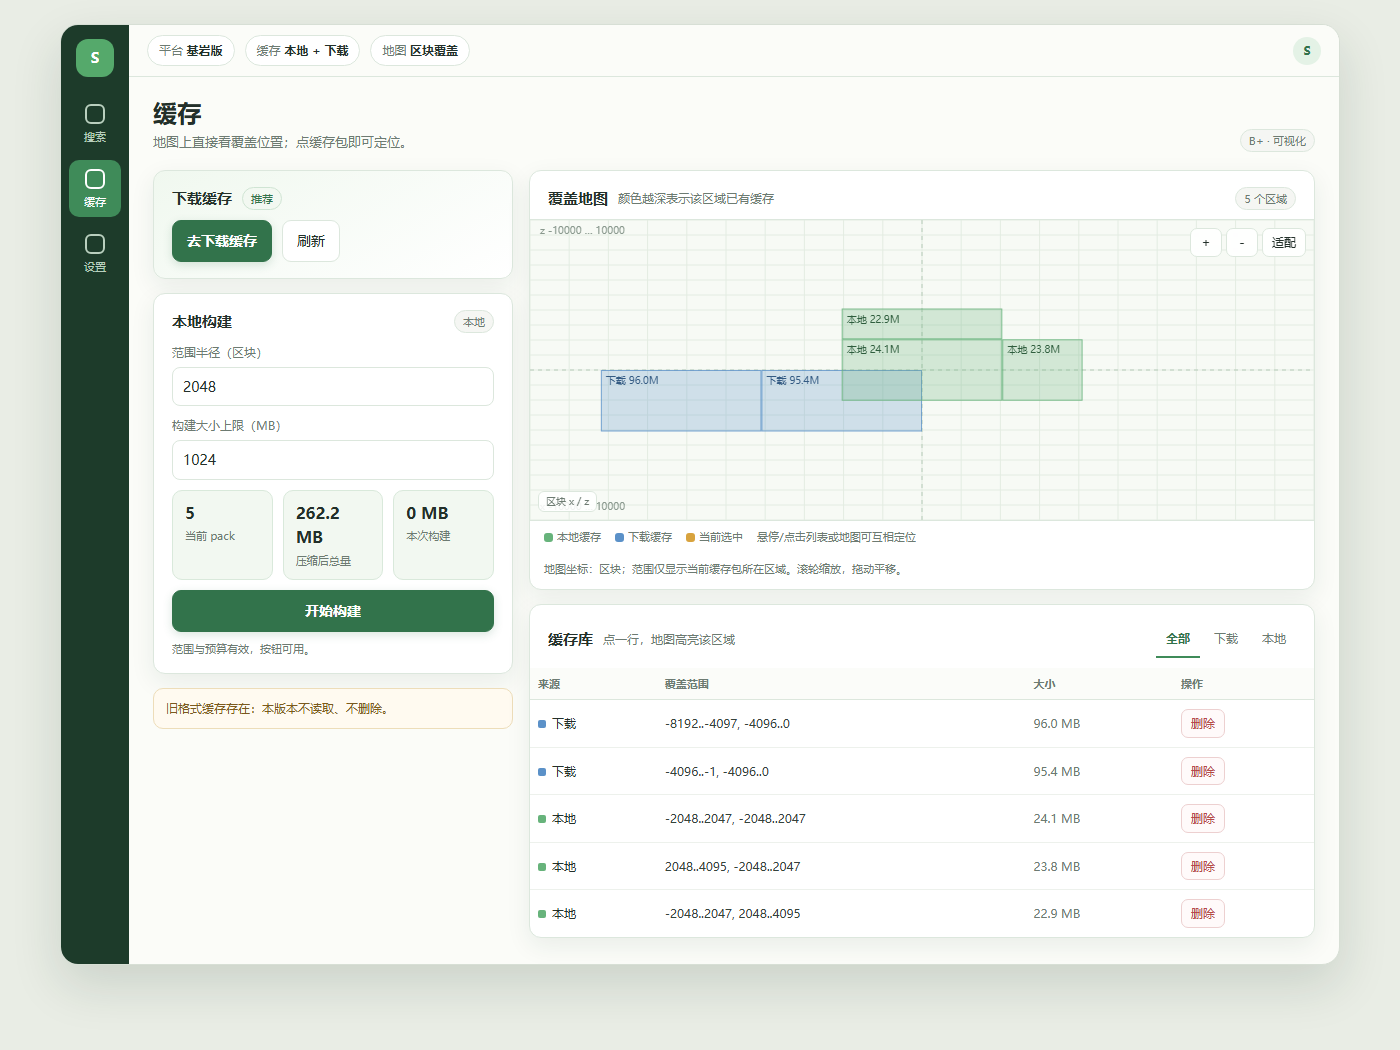
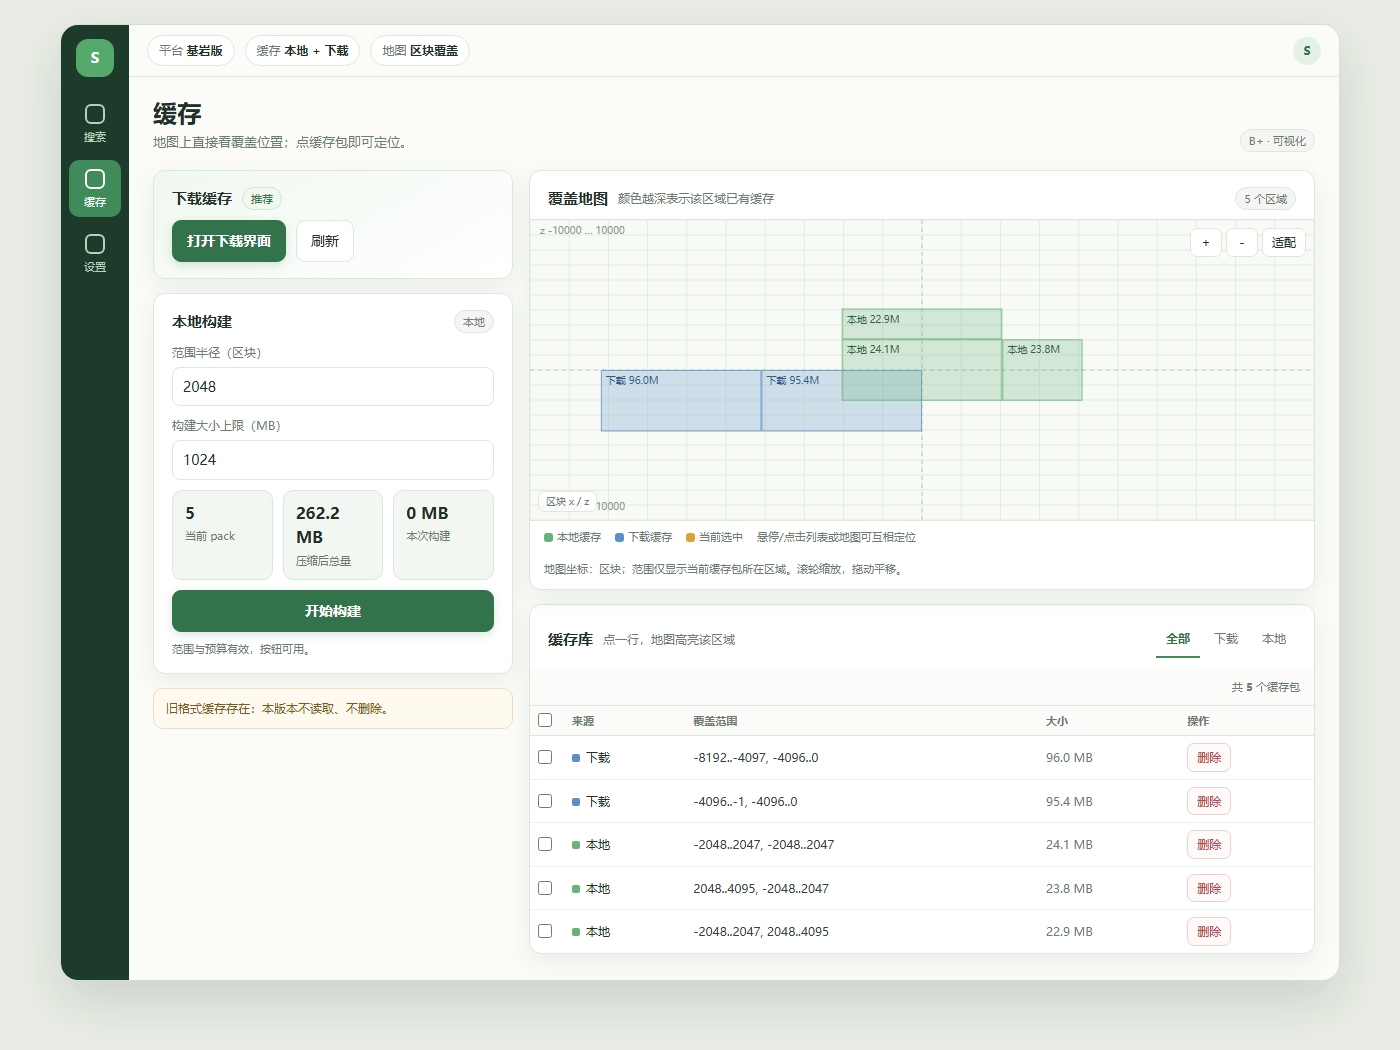
docs: 下载管理页与缓存批量删除原型

diff --git a/docs/ui-prototypes/download-page.html b/docs/ui-prototypes/download-page.html
@@ -1,0 +1,249 @@
+<!doctype html>
+<html lang="zh-CN">
+<head>
+<meta charset="utf-8">
+<meta name="viewport" content="width=device-width, initial-scale=1">
+<title>下载缓存 - 批量管理原型</title>
+<link rel="stylesheet" href="cache-ui.css">
+</head>
+<body>
+<div class="app">
+  <aside class="sidebar">
+    <div class="brand">S</div>
+    <button class="side-item"><span class="ico"></span>搜索</button>
+    <button class="side-item active"><span class="ico"></span>缓存</button>
+    <button class="side-item"><span class="ico"></span>设置</button>
+    <div class="side-spacer"></div>
+  </aside>
+  <main class="main">
+    <div class="topbar">
+      <span class="pill">平台 <strong>基岩版</strong></span>
+      <span class="pill">来源 <strong>官方缓存</strong></span>
+      <span class="pill">只读 <strong>可删不可改</strong></span>
+      <span class="spacer"></span>
+      <span class="avatar">S</span>
+    </div>
+    <div class="content">
+      <div class="download-page-head">
+        <a class="back" href="scheme-b-visual.html">← 缓存页</a>
+        <div>
+          <h1 style="font-size:23px;margin:0">下载缓存</h1>
+          <p class="muted small" style="margin:2px 0 0">按区域挑选官方缓存包；下载后可随时整批删除，不能修改内容或大小。</p>
+        </div>
+      </div>
+
+      <div class="catalog-tabs">
+        <button class="catalog-tab active" data-view="available">可下载 <span class="count" id="availableCount"></span></button>
+        <button class="catalog-tab" data-view="downloaded">已下载 <span class="count" id="downloadedCount"></span></button>
+      </div>
+
+      <div class="split" style="grid-template-columns:400px minmax(0,1fr)">
+        <div class="stack">
+          <section class="card map-card map-wide">
+            <div class="card-pad" style="padding-bottom:8px">
+              <div class="card-head" style="margin-bottom:0">
+                <h2>覆盖预览</h2>
+                <span class="spacer"></span>
+                <span class="tag gray" id="mapMode">可下载</span>
+              </div>
+            </div>
+            <div class="map-wrap">
+              <canvas id="coverageMap" style="height:330px" aria-label="缓存覆盖地图"></canvas>
+              <div class="map-tools">
+                <button class="btn small" id="zoomIn">＋</button>
+                <button class="btn small" id="zoomOut">－</button>
+                <button class="btn small" id="fit">适配</button>
+              </div>
+              <div class="map-readout" id="readout">区块 x / z</div>
+            </div>
+            <div class="map-legend">
+              <span><i class="legend-dot downloaded"></i>可下载包</span>
+              <span><i class="legend-dot local"></i>已下载</span>
+              <span><i class="legend-dot selected"></i>当前选中</span>
+            </div>
+            <div class="map-note">点列表或地图选择缓存包；蓝色为可下载，绿色为已下载。</div>
+          </section>
+          <div class="summary-strip">
+            <span>已下载 <strong id="downloadedTotal">0</strong> 个</span>
+            <span>占用 <strong id="downloadedSize">0 MB</strong></span>
+            <span class="note">已下载缓存只读，可批量删除。</span>
+          </div>
+        </div>
+
+        <section class="card">
+          <div class="toolstrip">
+            <div class="catalog-tabs" style="border:0;margin:0;flex:1">
+              <span class="note" id="viewHint">选择缓存包下载</span>
+            </div>
+            <input class="input search" id="search" placeholder="搜索范围，如 2048 / 4096">
+            <button class="btn small" id="refresh">刷新</button>
+          </div>
+          <div class="toolstrip" style="padding-top:0;padding-bottom:0;border:0">
+            <div class="bulkbar" id="bulkbar">
+              <span>已选 <strong id="selCount">0</strong> 个</span>
+              <span class="spacer"></span>
+              <button class="btn small" id="bulkAction">下载选中</button>
+              <button class="btn small danger hidden" id="bulkDelete">删除选中</button>
+            </div>
+            <span class="note" style="margin-left:auto" id="pageInfo"></span>
+          </div>
+          <table class="table compact">
+            <thead>
+              <tr>
+                <th style="width:30px"><input class="check" id="selectAll" type="checkbox" title="全选当前页"></th>
+                <th>包名</th><th>覆盖范围</th><th>大小</th><th>状态</th><th style="width:78px">操作</th>
+              </tr>
+            </thead>
+            <tbody id="rows"></tbody>
+          </table>
+          <div class="pager">
+            <button class="btn" id="prev">上一页</button>
+            <span id="pageLabel">1 / 1</span>
+            <button class="btn" id="next">下一页</button>
+          </div>
+        </section>
+      </div>
+    </div>
+  </main>
+</div>
+<script>
+  const PAGE = 20;
+  const available = [], downloaded = [];
+  // 生成 240 个可下载包 + 247 个已下载包（示例）
+  for (let i = 0; i < 240; i++) {
+    const cx = (i % 20) * 2048 - 20480;
+    const cz = Math.floor(i / 20) * 2048 - 12288;
+    available.push({ id:'a'+i, name:'pack-' + String(i+1).padStart(4,'0'), x0:cx, x1:cx+2047, z0:cz, z1:cz+2047, size:24.1 + (i%7)*.1, state:'未下载' });
+  }
+  for (let i = 0; i < 247; i++) {
+    const cx = (i % 20) * 2048 - 20480;
+    const cz = Math.floor(i / 20) * 2048 - 12288;
+    downloaded.push({ id:'d'+i, name:'pack-' + String(i+1).padStart(4,'0'), x0:cx, x1:cx+2047, z0:cz, z1:cz+2047, size:24.0 + (i%5)*.1, state:'已下载' });
+  }
+  let view = 'available', page = 0, selected = null, filter = '';
+  const selectedSet = new Set();
+  const canvas = document.getElementById('coverageMap');
+  const ctx = canvas.getContext('2d');
+  let mapView = { x0:-26000, x1:26000, z0:-18000, z1:18000 };
+
+  function list() { return view === 'available' ? available : downloaded; }
+  function filtered() {
+    const q = filter.trim();
+    return list().filter(p => !q || p.name.includes(q) || String(p.x0).includes(q) || String(p.x1).includes(q));
+  }
+  function pageRows() { return filtered().slice(page*PAGE, page*PAGE + PAGE); }
+  function fmt(n){ return n.toFixed(1) + ' MB'; }
+
+  function sizeCanvas() {
+    const r = canvas.getBoundingClientRect();
+    const dpr = window.devicePixelRatio || 1;
+    canvas.width = Math.max(1, Math.round(r.width*dpr));
+    canvas.height = Math.max(1, Math.round(r.height*dpr));
+    ctx.setTransform(dpr,0,0,dpr,0,0);
+    draw();
+  }
+  function w2s(x,z) {
+    const w=canvas.clientWidth,h=canvas.clientHeight;
+    return { x:(x-mapView.x0)/(mapView.x1-mapView.x0)*w, y:h-(z-mapView.z0)/(mapView.z1-mapView.z0)*h };
+  }
+  function s2w(sx,sy) {
+    const w=canvas.clientWidth,h=canvas.clientHeight;
+    return { x:mapView.x0+sx/w*(mapView.x1-mapView.x0), z:mapView.z0+(h-sy)/h*(mapView.z1-mapView.z0) };
+  }
+  function draw() {
+    const w=canvas.clientWidth,h=canvas.clientHeight;
+    ctx.clearRect(0,0,w,h); ctx.fillStyle='#f7faf5'; ctx.fillRect(0,0,w,h);
+    ctx.strokeStyle='#e3ece2'; ctx.lineWidth=1;
+    for (let i=0;i<=20;i++) { const x=i/20*w,y=i/20*h; ctx.beginPath();ctx.moveTo(x,0);ctx.lineTo(x,h);ctx.stroke();ctx.beginPath();ctx.moveTo(0,y);ctx.lineTo(w,y);ctx.stroke(); }
+    const all = list();
+    for (const p of all) {
+      const a=w2s(p.x0,p.z0), b=w2s(p.x1+1,p.z1+1);
+      const x=Math.min(a.x,b.x), y=Math.min(a.y,b.y), ww=Math.abs(b.x-a.x), hh=Math.abs(b.y-a.y);
+      if (x+ww<0||y+hh<0||x>w||y>h) continue;
+      const isSel = p.id === selected;
+      const isDown = view === 'downloaded';
+      ctx.fillStyle = isSel ? 'rgba(216,163,62,.55)' : (isDown ? 'rgba(103,179,123,.32)' : 'rgba(91,145,200,.28)');
+      ctx.fillRect(x,y,ww,hh);
+      ctx.strokeStyle = isSel ? '#d8a33e' : (isDown ? 'rgba(103,179,123,.55)' : 'rgba(91,145,200,.5)');
+      ctx.lineWidth = isSel ? 2 : .7;
+      ctx.strokeRect(x+.5,y+.5,Math.max(1,ww-1),Math.max(1,hh-1));
+    }
+    ctx.fillStyle='#8a998e';ctx.font='10px "Microsoft YaHei", sans-serif';
+    ctx.fillText('x ' + Math.round(mapView.x0) + ' … ' + Math.round(mapView.x1), 10, h-10);
+    ctx.fillText('z ' + Math.round(mapView.z0) + ' … ' + Math.round(mapView.z1), 10, 14);
+  }
+  function render() {
+    const rows = document.getElementById('rows');
+    rows.innerHTML = '';
+    const paged = pageRows();
+    for (const p of paged) {
+      const tr = document.createElement('tr');
+      tr.className = 'pack-row' + (p.id === selected ? ' selected' : '');
+      const isDown = view === 'downloaded';
+      tr.innerHTML = '<td><input class="check row-check" type="checkbox" ' + (selectedSet.has(p.id)?'checked':'') + '></td>' +
+        '<td>' + p.name + '</td><td class="range">' + p.x0 + '..' + p.x1 + ', ' + p.z0 + '..' + p.z1 + '</td>' +
+        '<td class="num">' + fmt(p.size) + '</td>' +
+        '<td><span class="download-state ' + (isDown?'':'pending') + '">' + (isDown?'已下载':'可下载') + '</span></td>' +
+        '<td>' + (isDown ? '<button class="btn small danger" data-del="'+p.id+'">删除</button>'
+                         : '<button class="btn small primary" data-dl="'+p.id+'">下载</button>') + '</td>';
+      tr.addEventListener('click', () => { selected = p.id; render(); draw(); });
+      const cb = tr.querySelector('.row-check');
+      cb.addEventListener('click', e => { e.stopPropagation(); if (cb.checked) selectedSet.add(p.id); else selectedSet.delete(p.id); updateSel(); });
+      const del = tr.querySelector('[data-del]');
+      if (del) del.addEventListener('click', e => { e.stopPropagation(); downloaded = downloaded.filter(x=>x.id!==p.id); selectedSet.delete(p.id); if(selected===p.id) selected=null; render(); draw(); updateCounts(); });
+      const dl = tr.querySelector('[data-dl]');
+      if (dl) dl.addEventListener('click', e => { e.stopPropagation(); dl.textContent='已加入'; dl.disabled=true; });
+      rows.appendChild(tr);
+    }
+    document.getElementById('pageLabel').textContent = (page+1) + ' / ' + Math.max(1, Math.ceil(filtered().length / PAGE));
+    document.getElementById('pageInfo').textContent = '共 ' + filtered().length + ' 个';
+    updateSel();
+  }
+  function updateSel() {
+    const paged = pageRows();
+    document.getElementById('selectAll').checked = paged.length > 0 && paged.every(p=>selectedSet.has(p.id));
+    document.getElementById('selCount').textContent = selectedSet.size;
+    document.getElementById('bulkbar').classList.toggle('show', selectedSet.size > 0);
+    const isDown = view === 'downloaded';
+    document.getElementById('bulkAction').classList.toggle('hidden', isDown);
+    document.getElementById('bulkDelete').classList.toggle('hidden', !isDown);
+  }
+  function updateCounts() {
+    document.getElementById('availableCount').textContent = available.length;
+    document.getElementById('downloadedCount').textContent = downloaded.length;
+    document.getElementById('downloadedTotal').textContent = downloaded.length;
+    document.getElementById('downloadedSize').textContent = fmt(downloaded.reduce((s,p)=>s+p.size,0));
+    document.getElementById('mapMode').textContent = view === 'downloaded' ? '已下载' : '可下载';
+    render();
+  }
+  function setView(v) {
+    view = v; page = 0; selected = null; selectedSet.clear();
+    document.querySelectorAll('.catalog-tab').forEach(x => x.classList.toggle('active', x.dataset.view === v));
+    updateCounts(); draw();
+  }
+  document.querySelectorAll('.catalog-tab').forEach(t => t.addEventListener('click', () => setView(t.dataset.view)));
+  document.getElementById('search').addEventListener('input', e => { filter = e.target.value; page = 0; selectedSet.clear(); render(); });
+  document.getElementById('prev').addEventListener('click', () => { if (page > 0) { page--; selectedSet.clear(); render(); } });
+  document.getElementById('next').addEventListener('click', () => { if ((page+1)*PAGE < filtered().length) { page++; selectedSet.clear(); render(); } });
+  document.getElementById('selectAll').addEventListener('change', e => {
+    selectedSet.clear(); if (e.target.checked) pageRows().forEach(p=>selectedSet.add(p.id)); render();
+  });
+  document.getElementById('bulkAction').addEventListener('click', () => { selectedSet.clear(); render(); });
+  document.getElementById('bulkDelete').addEventListener('click', () => {
+    downloaded = downloaded.filter(p => !selectedSet.has(p.id)); selectedSet.clear(); if (selected && !downloaded.some(p=>p.id===selected)) selected=null; updateCounts(); draw();
+  });
+  canvas.addEventListener('click', e => {
+    const r=canvas.getBoundingClientRect(), p=s2w(e.clientX-r.left,e.clientY-r.top);
+    const hit=list().slice().reverse().find(x=>p.x>=x.x0&&p.x<=x.x1&&p.z>=x.z0&&p.z<=x.z1);
+    if(hit){ selected=hit.id; render(); draw(); }
+  });
+  canvas.addEventListener('mousemove', e => { const r=canvas.getBoundingClientRect(), p=s2w(e.clientX-r.left,e.clientY-r.top); document.getElementById('readout').textContent='区块 ' + Math.round(p.x) + ' / ' + Math.round(p.z); });
+  canvas.addEventListener('wheel', e => { e.preventDefault(); const f=e.deltaY<0?.8:1.25; const cx=(mapView.x0+mapView.x1)/2, cz=(mapView.z0+mapView.z1)/2; const hw=(mapView.x1-mapView.x0)/2*f, hh=(mapView.z1-mapView.z0)/2*f; mapView={x0:cx-hw,x1:cx+hw,z0:cz-hh,z1:cz+hh}; draw(); }, {passive:false});
+  document.getElementById('zoomIn').addEventListener('click',()=>{const cx=(mapView.x0+mapView.x1)/2,cz=(mapView.z0+mapView.z1)/2,hw=(mapView.x1-mapView.x0)*.375,hh=(mapView.z1-mapView.z0)*.375;mapView={x0:cx-hw,x1:cx+hw,z0:cz-hh,z1:cz+hh};draw();});
+  document.getElementById('zoomOut').addEventListener('click',()=>{const cx=(mapView.x0+mapView.x1)/2,cz=(mapView.z0+mapView.z1)/2,hw=(mapView.x1-mapView.x0)*.75,hh=(mapView.z1-mapView.z0)*.75;mapView={x0:cx-hw,x1:cx+hw,z0:cz-hh,z1:cz+hh};draw();});
+  document.getElementById('fit').addEventListener('click',()=>{mapView={x0:-26000,x1:26000,z0:-18000,z1:18000};draw();});
+  window.addEventListener('resize', sizeCanvas);
+  sizeCanvas(); updateCounts(); draw();
+</script>
+</body>
+</html>

diff --git a/docs/ui-prototypes/scheme-b-visual.html b/docs/ui-prototypes/scheme-b-visual.html
@@ -42,8 +42,8 @@
               <span class="note">官方缓存只读；可整包删除，不能修改内容或大小。</span>
             </div>
             <div class="row" style="margin-top:10px">
-              <button class="btn primary" disabled>去下载缓存</button>
-              <button class="btn" disabled>刷新</button>
+              <a class="btn primary" href="download-page.html" style="text-decoration:none;display:inline-flex;align-items:center">打开下载界面</a>
+              <button class="btn">刷新</button>
             </div>
           </section>
 
@@ -113,8 +113,16 @@
                 </div>
               </div>
             </div>
-            <table class="table">
-              <thead><tr><th>来源</th><th>覆盖范围</th><th>大小</th><th>操作</th></tr></thead>
+            <div class="toolstrip">
+              <div class="bulkbar" id="bulkbar">
+                <span>已选 <strong id="selCount">0</strong> 个</span>
+                <span class="spacer"></span>
+                <button class="btn small danger" id="deleteSelected">删除选中</button>
+              </div>
+              <span class="note" style="margin-left:auto">共 <strong id="rowCount">0</strong> 个缓存包</span>
+            </div>
+            <table class="table compact">
+              <thead><tr><th style="width:30px"><input class="check" id="selectAll" type="checkbox" title="全选当前筛选"></th><th>来源</th><th>覆盖范围</th><th>大小</th><th>操作</th></tr></thead>
               <tbody id="packRows"></tbody>
             </table>
             <div class="empty" id="packEmpty" style="margin:12px 14px;display:none">当前筛选下没有缓存包。</div>
@@ -134,6 +142,7 @@
     { id:'l3', source:'local', x0:-2048, x1:2047, z0:2048, z1:4095, size:22.9 }
   ];
   let selected = null, hovered = null, filter = 'all';
+  const selectedSet = new Set();
   let view = { x0:-10000, x1:10000, z0:-10000, z1:10000 };
   const canvas = document.getElementById('coverageMap');
   const ctx = canvas.getContext('2d');
@@ -222,22 +231,44 @@
       tr.className = 'pack-row' + (p.id === selected ? ' selected' : '');
       tr.dataset.id = p.id;
       const srcLabel = p.source === 'downloaded' ? '下载' : '本地';
-      tr.innerHTML = '<td><i class="source-dot ' + p.source + '"></i>' + srcLabel + '</td>' +
+      tr.innerHTML = '<td><input class="check row-check" type="checkbox" ' + (selectedSet.has(p.id) ? 'checked' : '') + '></td>' +
+        '<td><i class="source-dot ' + p.source + '"></i>' + srcLabel + '</td>' +
         '<td class="range">' + p.x0 + '..' + p.x1 + ', ' + p.z0 + '..' + p.z1 + '</td>' +
         '<td class="num">' + p.size.toFixed(1) + ' MB</td>' +
         '<td><button class="btn small danger" data-del="' + p.id + '">删除</button></td>';
       tr.addEventListener('click', () => { selected = p.id; renderRows(); draw(); });
       tr.addEventListener('mouseenter', () => { hovered = p.id; draw(); });
       tr.addEventListener('mouseleave', () => { hovered = null; draw(); });
+      const cb = tr.querySelector('.row-check');
+      cb.addEventListener('click', (e) => {
+        e.stopPropagation();
+        if (cb.checked) selectedSet.add(p.id); else selectedSet.delete(p.id);
+        updateSelectionUi(shown);
+      });
       tr.querySelector('[data-del]').addEventListener('click', (e) => {
         e.stopPropagation();
         packs = packs.filter(x => x.id !== p.id);
+        selectedSet.delete(p.id);
         if (selected === p.id) selected = null;
-        renderRows(); draw(); updateEmpty();
+        renderRows(); draw();
       });
       rows.appendChild(tr);
     }
-    document.getElementById('packEmpty').style.display = shown.length ? 'none' : '';
+    updateSelectionUi(shown);
+  }
+  function updateSelectionUi(shown) {
+    const all = document.getElementById('selectAll');
+    all.checked = shown.length > 0 && shown.every(p => selectedSet.has(p.id));
+    document.getElementById('selCount').textContent = String(selectedSet.size);
+    document.getElementById('bulkbar').classList.toggle('show', selectedSet.size > 0);
+    document.getElementById('rowCount').textContent = String(packs.length);
+  }
+  function deleteSelected() {
+    if (!selectedSet.size) return;
+    packs = packs.filter(p => !selectedSet.has(p.id));
+    if (selected && selectedSet.has(selected)) selected = null;
+    selectedSet.clear();
+    renderRows(); draw();
   }
   function updateEmpty() { renderRows(); draw(); }
   // 地图点击选择
@@ -284,6 +315,13 @@
     const padX = Math.max(512, (x1-x0) * .12), padZ = Math.max(512, (z1-z0) * .12);
     view = { x0:x0-padX, x1:x1+padX, z0:z0-padZ, z1:z1+padZ }; draw();
   });
+  document.getElementById('selectAll').addEventListener('change', (e) => {
+    const shown = packs.filter(p => filter === 'all' || p.source === filter);
+    selectedSet.clear();
+    if (e.target.checked) shown.forEach(p => selectedSet.add(p.id));
+    renderRows();
+  });
+  document.getElementById('deleteSelected').addEventListener('click', deleteSelected);
   // 标签切换
   document.querySelectorAll('.tab').forEach(t => t.addEventListener('click', () => {
     document.querySelectorAll('.tab').forEach(x => x.classList.remove('active'));

diff --git a/docs/ui-prototypes/cache-ui.css b/docs/ui-prototypes/cache-ui.css
@@ -223,3 +223,33 @@ button { cursor: pointer; }
 .map-note { padding: 8px 14px 12px; color: var(--muted); font-size: 11px; }
 .map-empty { position: absolute; inset: 0; display: grid; place-items: center; color: var(--muted); font-size: 12px; pointer-events: none; }
 .visually-hidden { position: absolute; width: 1px; height: 1px; overflow: hidden; clip: rect(0 0 0 0); }
+
+/* download management / bulk operations */
+.bulkbar { display:none; align-items:center; gap:10px; background:#eef6ed; border:1px solid #cfe3d2; border-radius:9px; padding:7px 10px; font-size:12px; color:#365c42; }
+.bulkbar.show { display:flex; }
+.bulkbar .spacer { flex:1; }
+.check { width:14px; height:14px; accent-color:#3f8b59; cursor:pointer; }
+.toolstrip { display:flex; align-items:center; gap:8px; flex-wrap:wrap; padding:10px 14px; border-bottom:1px solid var(--line); background:#fbfcf9; }
+.toolstrip .spacer { flex:1; }
+.toolstrip .input { padding:6px 9px; font-size:12px; }
+.toolstrip .search { width:240px; }
+.pager { display:flex; align-items:center; gap:6px; justify-content:flex-end; padding:9px 14px; color:var(--muted); font-size:11px; }
+.pager .btn { padding:3px 8px; font-size:11px; }
+.download-page-head { display:flex; align-items:center; gap:10px; margin-bottom:14px; }
+.download-page-head .back { color:var(--green-700); text-decoration:none; font-size:12px; border:1px solid #cfe4d3; padding:5px 9px; border-radius:7px; background:#f6fbf5; }
+.download-page-head .back:hover { background:#eaf5e8; }
+.catalog-tabs { display:flex; gap:4px; border-bottom:1px solid var(--line); margin-bottom:12px; }
+.catalog-tab { padding:9px 12px; border:0; border-bottom:2px solid transparent; background:transparent; color:var(--muted); font-size:12px; }
+.catalog-tab.active { color:var(--green-700); border-bottom-color:var(--green-600); font-weight:700; }
+.catalog-tab .count { color:var(--muted); font-weight:400; margin-left:3px; }
+.dl-summary { display:flex; gap:14px; align-items:center; color:var(--muted); font-size:11px; }
+.dl-summary strong { color:var(--ink); font-variant-numeric:tabular-nums; }
+.map-wide #coverageMap { height:260px; }
+.row-actions { display:flex; gap:4px; }
+.row-actions .btn { white-space:nowrap; }
+.table.compact td { padding:7px 8px; }
+.table.compact th { padding:6px 8px; }
+.table input.check { margin:0 4px 0 0; vertical-align:-2px; }
+.download-state { color:var(--green-700); font-size:11px; }
+.download-state.pending { color:var(--muted); }
+.download-state.queued { color:var(--amber); }

diff --git a/docs/ui-prototypes/index.html b/docs/ui-prototypes/index.html
@@ -42,6 +42,12 @@
       </a>
     </div>
     <div class="card">
+      <a href="download-page.html">
+        <div class="preview"><div class="mini"><div style="display:flex;gap:6px;margin-bottom:6px"><div class="b" style="flex:1"></div><div class="b s" style="width:30%"></div></div><div class="b g"></div><div style="display:flex;gap:4px;margin-top:8px"><div class="b s" style="flex:1"></div><div style="height:18px;width:52px;border-radius:5px;background:#3f8b59"></div></div></div></div>
+        <div class="body"><h2>下载管理页</h2><p>240+ 个缓存包的搜索、分页、批量下载与批量删除；地图预览选中包。</p><span class="badge">配套页面 · 批量操作</span></div>
+      </a>
+    </div>
+    <div class="card">
       <a href="scheme-b.html">
         <div class="preview"><div class="mini" style="display:grid;grid-template-columns:1fr 1fr;gap:7px"><div><div class="b g"></div><div class="b"></div></div><div><div class="b"></div><div class="b"></div><div class="b s"></div></div></div></div>
         <div class="body"><h2>B · 原版左右工作台</h2><p>不带地图的左右工作台，保留作对照。</p><span class="badge">对照</span></div>
